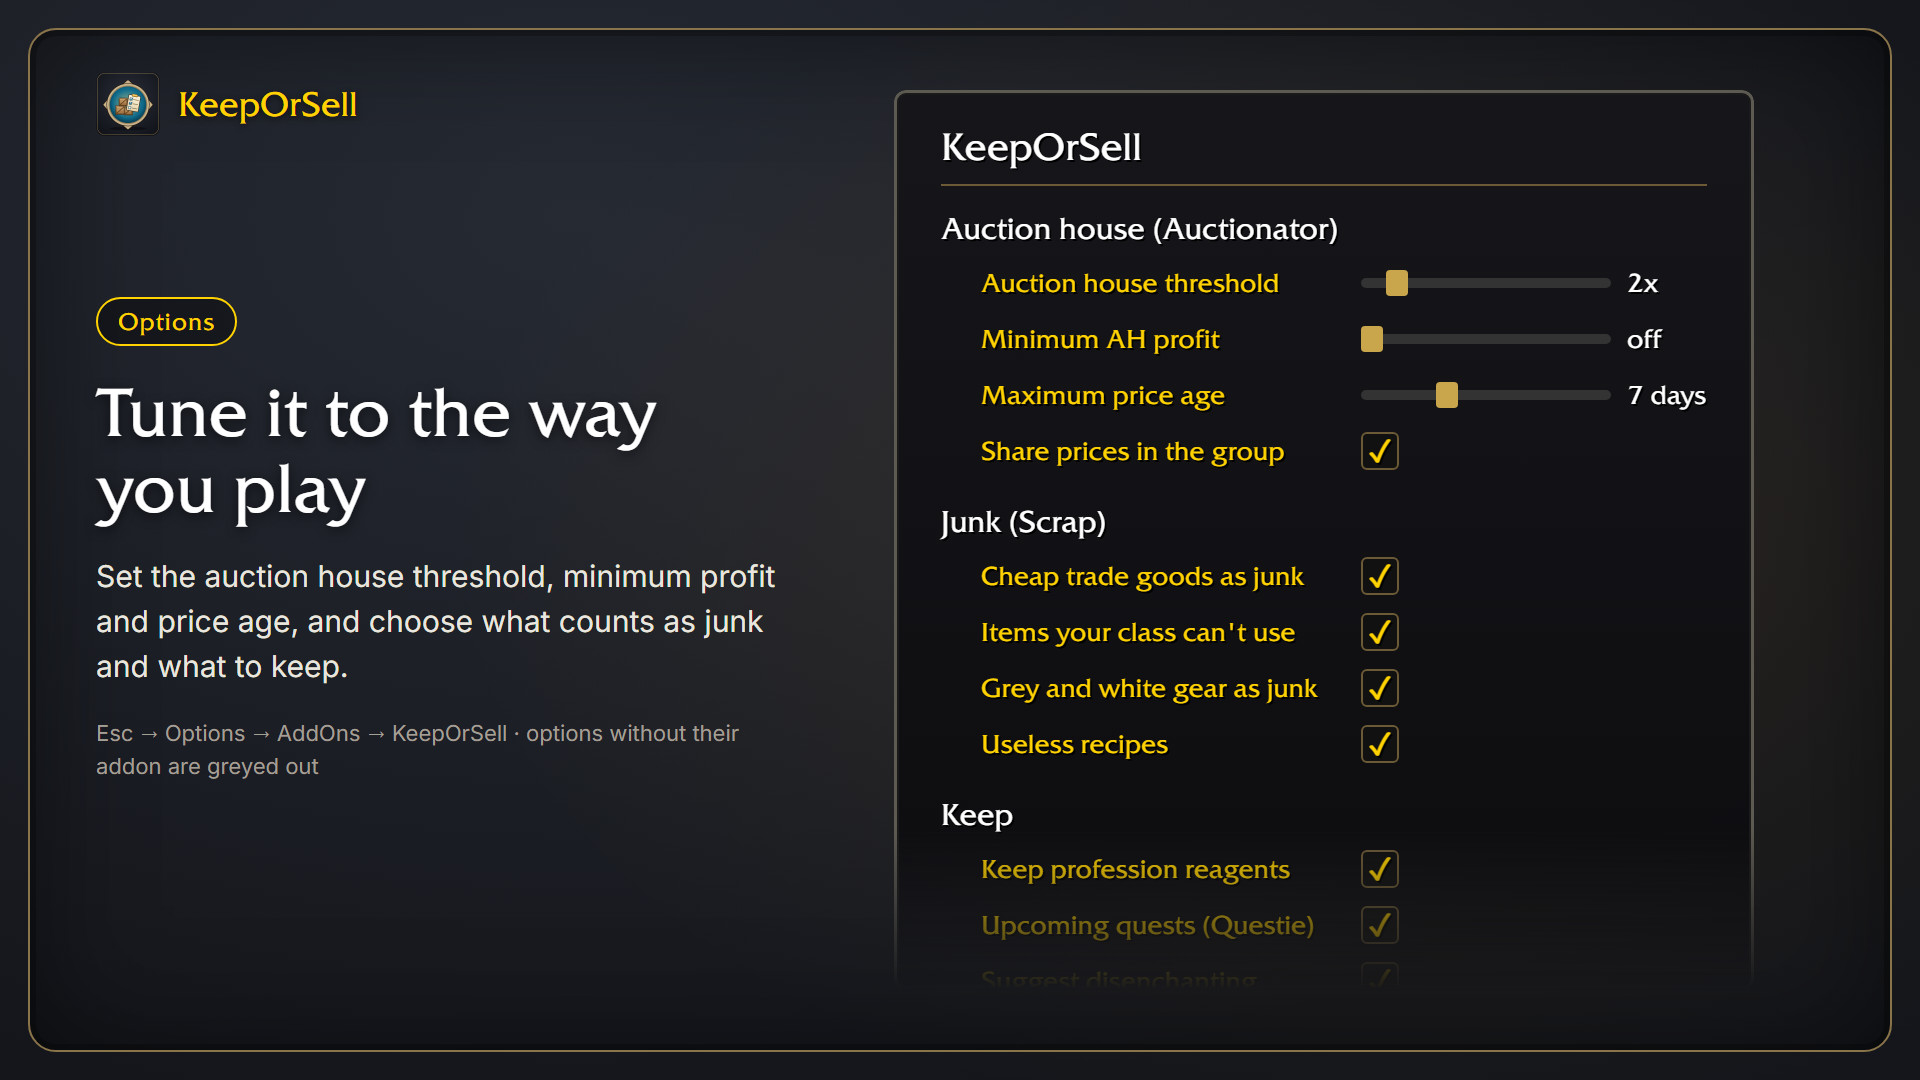
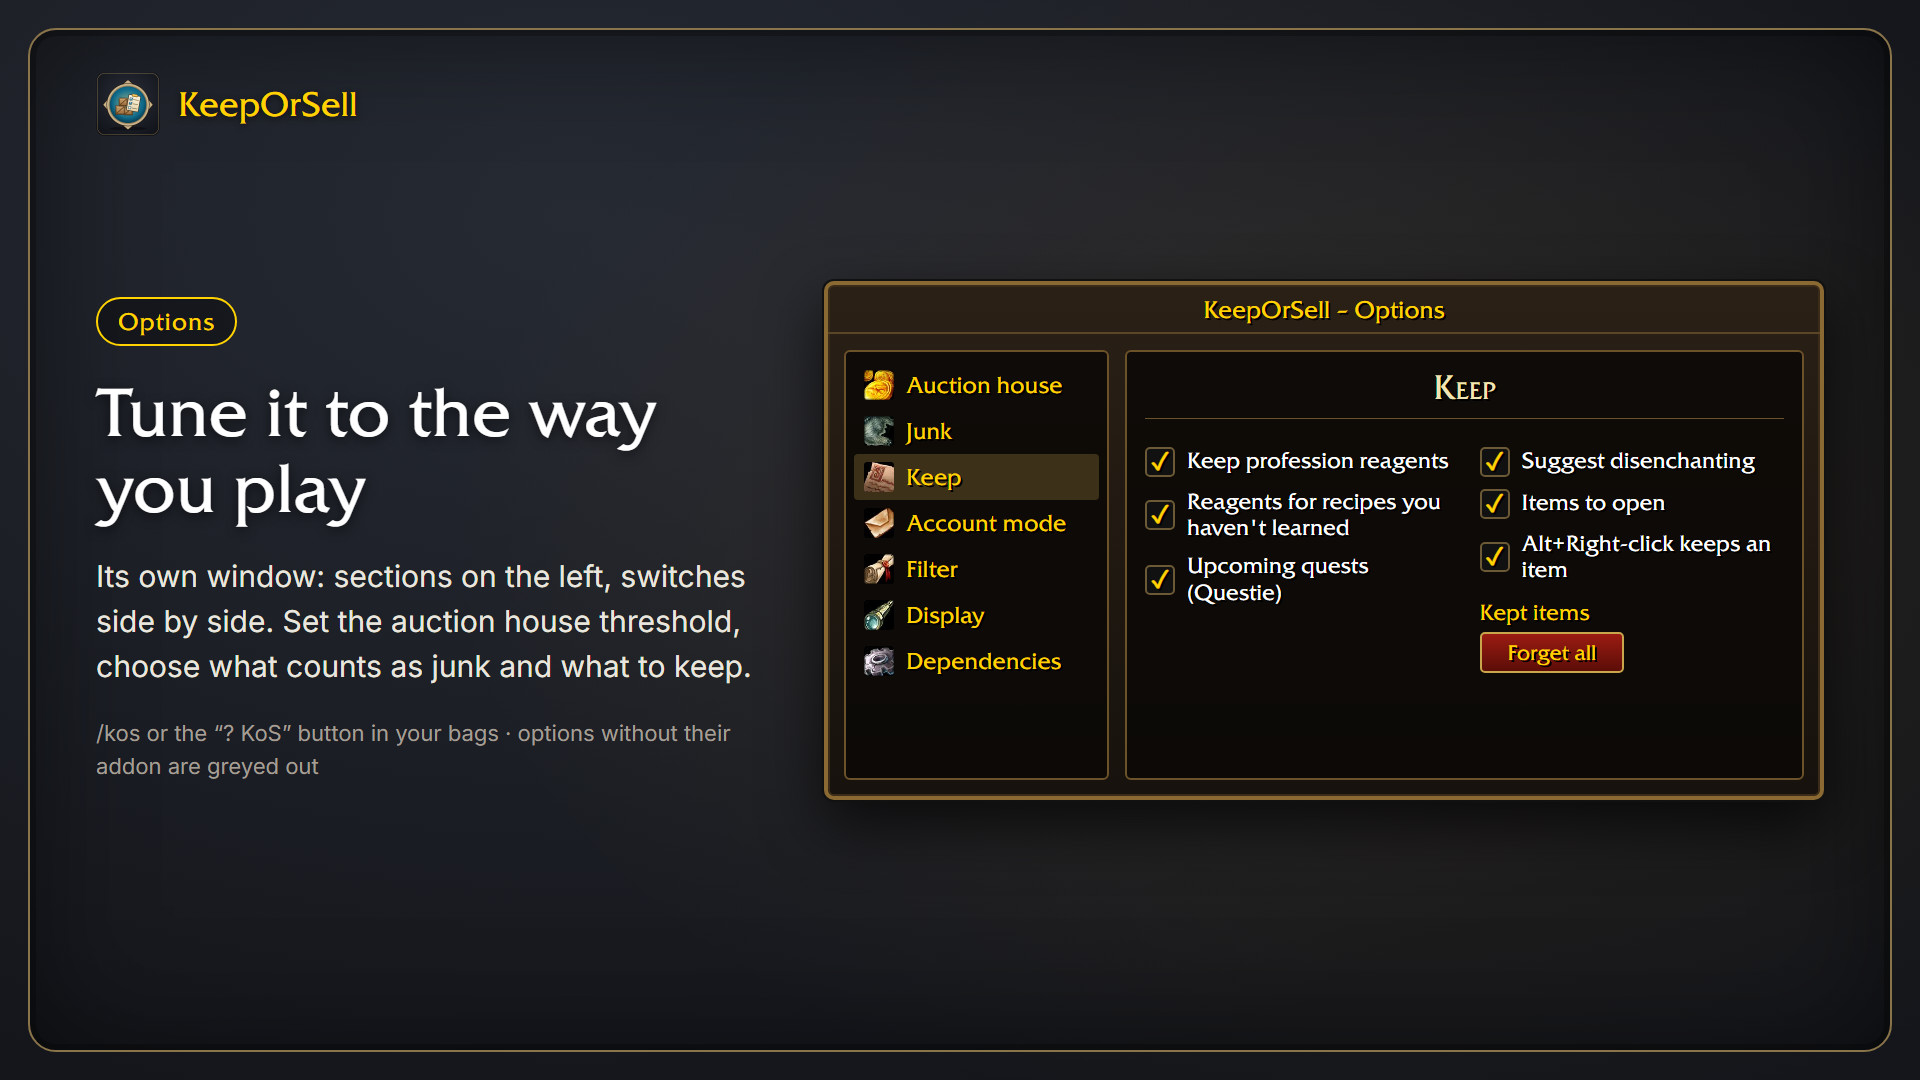
docs: gallery images for the options window and account mode

diff --git a/media/gallery/09-account-mode.html b/media/gallery/09-account-mode.html
@@ -1,0 +1,56 @@
+<!doctype html>
+<html lang="en">
+<head>
+<meta charset="utf-8">
+<title>KeepOrSell – Account mode</title>
+<link rel="stylesheet" href="https://fonts.googleapis.com/css2?family=Inter:wght@400;600&display=block">
+<link rel="stylesheet" href="style.css">
+</head>
+<body>
+<div class="frame"></div>
+<div class="brand"><img src="../logo.png" alt="">KeepOrSell</div>
+<div class="copy">
+  <span class="chip" style="color: var(--group-alt)">For alts</span>
+  <h1>Thinks of your alts too</h1>
+  <p>Profession materials and class items another of your characters still needs go to their own group. Mail them over in one go.</p>
+  <p class="note">Same ruleset and faction · each alt logs in once with KeepOrSell · switch it per alt</p>
+</div>
+<div class="stage">
+  <div class="stack" style="gap: 30px;">
+    <div class="pair">
+      <div class="slot"><img src="icons/inv_fabric_linen_01.jpg" alt=""><span class="count">20</span></div>
+      <div class="tooltip small" style="width: 820px;">
+        <div class="name q-common">Linen Cloth</div>
+        <div class="blue">Crafting Reagent</div>
+        <div>Sell Price: <span class="m">13<i class="c cu"></i></span></div>
+        <div class="gap"></div>
+        <div><span class="kos">KeepOrSell:</span> For alts: Hunt&nbsp;Fred (First Aid), Lock&nbsp;Fred (First Aid, Tailoring) – mail it over</div>
+        <div class="row" style="color: #ffaa33;"><span>&nbsp;&nbsp;» Otherwise: Auction house</span><span class="m">20<i class="c cu"></i></span></div>
+        <div class="row grey"><span>&nbsp;&nbsp;&nbsp;&nbsp;Vendor</span><span class="m">13<i class="c cu"></i></span></div>
+      </div>
+    </div>
+    <div class="win" style="width: 940px; margin-left: 40px;">
+      <div class="bar">Account mode</div>
+      <div class="body">
+        <div class="pane content" style="min-height: 0;">
+          <div class="cb" style="margin-top: 0;"><span class="box">✓</span>Think of my other characters</div>
+          <div class="label">Your alts (PvP · Alliance)</div>
+          <table>
+            <tr><th>Character</th><th style="text-align: left;">Professions</th><th>Profession materials</th><th>Class items</th><th>Included</th></tr>
+            <tr><td style="color: #abd473;">Hunt Fred</td>
+              <td><div class="icons"><img src="icons/inv_misc_food_15.jpg" alt=""><img src="icons/spell_holy_sealofsacrifice.jpg" alt=""><img src="icons/trade_fishing.jpg" alt=""><img src="icons/trade_herbalism.jpg" alt=""><img src="icons/inv_misc_pelt_wolf_01.jpg" alt=""></div></td>
+              <td><span class="box">✓</span></td><td><span class="box">✓</span></td><td><span class="box">✓</span></td></tr>
+            <tr><td style="color: #8788ee;">Lock Fred</td>
+              <td><div class="icons"><img src="icons/inv_misc_food_15.jpg" alt=""><img src="icons/spell_holy_sealofsacrifice.jpg" alt=""><img class="off" src="icons/trade_fishing.jpg" alt=""><img src="icons/trade_tailoring.jpg" alt=""><img src="icons/trade_engraving.jpg" alt=""></div></td>
+              <td><span class="box">✓</span></td><td><span class="box">✓</span></td><td><span class="box">✓</span></td></tr>
+            <tr class="off"><td style="color: #f58cba;">Su Ez <span style="color: #8d8a82;">(bank)</span></td>
+              <td><div class="icons"><img src="icons/inv_misc_food_15.jpg" alt=""><img src="icons/spell_holy_sealofsacrifice.jpg" alt=""><img class="off" src="icons/trade_fishing.jpg" alt=""><img src="icons/trade_mining.jpg" alt=""><img src="icons/trade_blacksmithing.jpg" alt=""></div></td>
+              <td><span class="box">✓</span></td><td><span class="box">✓</span></td><td><span class="box"></span></td></tr>
+          </table>
+        </div>
+      </div>
+    </div>
+  </div>
+</div>
+</body>
+</html>

diff --git a/media/gallery/08-options.html b/media/gallery/08-options.html
@@ -12,26 +12,40 @@
 <div class="copy">
   <span class="chip" style="color: var(--gold)">Options</span>
   <h1>Tune it to the way you play</h1>
-  <p>Set the auction house threshold, minimum profit and price age, and choose what counts as junk and what to keep.</p>
-  <p class="note">Esc → Options → AddOns → KeepOrSell · options without their addon are greyed out</p>
+  <p>Its own window: sections on the left, switches side by side. Set the auction house threshold, choose what counts as junk and what to keep.</p>
+  <p class="note">/kos or the “? KoS” button in your bags · options without their addon are greyed out</p>
 </div>
 <div class="stage">
-  <div class="settings" style="height: 900px; overflow: hidden;">
-    <h2>KeepOrSell</h2>
-    <h3>Auction house (Auctionator)</h3>
-    <div class="opt"><span>Auction house threshold</span><span class="slider"><span class="track"><i style="left: 10%"></i></span>2x</span></div>
-    <div class="opt"><span>Minimum AH profit</span><span class="slider"><span class="track"><i style="left: 0%"></i></span>off</span></div>
-    <div class="opt"><span>Maximum price age</span><span class="slider"><span class="track"><i style="left: 30%"></i></span>7 days</span></div>
-    <div class="opt"><span>Share prices in the group</span><span class="box">✓</span></div>
-    <h3>Junk (Scrap)</h3>
-    <div class="opt"><span>Cheap trade goods as junk</span><span class="box">✓</span></div>
-    <div class="opt"><span>Items your class can't use</span><span class="box">✓</span></div>
-    <div class="opt"><span>Grey and white gear as junk</span><span class="box">✓</span></div>
-    <div class="opt"><span>Useless recipes</span><span class="box">✓</span></div>
-    <h3>Keep</h3>
-    <div class="opt"><span>Keep profession reagents</span><span class="box">✓</span></div>
-    <div class="opt"><span>Upcoming quests (Questie)</span><span class="box">✓</span></div>
-    <div class="opt"><span>Suggest disenchanting</span><span class="box">✓</span></div>
+  <div class="win">
+    <div class="bar">KeepOrSell – Options</div>
+    <div class="body">
+      <div class="pane nav">
+        <div><img src="icons/inv_misc_coin_01.jpg" alt="">Auction house</div>
+        <div><img src="icons/inv_misc_pelt_wolf_01.jpg" alt="">Junk</div>
+        <div class="sel"><img src="icons/inv_misc_note_01.jpg" alt="">Keep</div>
+        <div><img src="icons/inv_letter_15.jpg" alt="">Account mode</div>
+        <div><img src="icons/inv_scroll_03.jpg" alt="">Filter</div>
+        <div><img src="icons/inv_misc_spyglass_02.jpg" alt="">Display</div>
+        <div><img src="icons/inv_misc_gear_01.jpg" alt="">Dependencies</div>
+      </div>
+      <div class="pane content">
+        <h2>Keep</h2>
+        <div class="cols">
+          <div class="col">
+            <div class="cb"><span class="box">✓</span>Keep profession reagents</div>
+            <div class="cb"><span class="box">✓</span>Reagents for recipes you haven't learned</div>
+            <div class="cb"><span class="box">✓</span>Upcoming quests (Questie)</div>
+          </div>
+          <div class="col">
+            <div class="cb"><span class="box">✓</span>Suggest disenchanting</div>
+            <div class="cb"><span class="box">✓</span>Items to open</div>
+            <div class="cb"><span class="box">✓</span>Alt+Right-click keeps an item</div>
+            <div class="label">Kept items</div>
+            <span class="btn">Forget all</span>
+          </div>
+        </div>
+      </div>
+    </div>
   </div>
 </div>
 </body>

diff --git a/media/gallery/style.css b/media/gallery/style.css
@@ -18,6 +18,7 @@
   --group-ah: #f0a73c;
   --group-disenchant: #b57cff;
   --group-junk: #9d9d9d;
+  --group-alt: #8fd16a;
 }
 
 * { box-sizing: border-box; margin: 0; padding: 0; }
@@ -183,3 +184,45 @@ body {
 .settings .track i { position: absolute; top: -8px; width: 22px; height: 26px; border-radius: 4px; background: #c9a64b; }
 .settings .dep { color: #fff; }
 .settings .dep b { font-weight: normal; color: #1eff00; }
+
+/* KeepOrSell's own options window (UI/OptionsWindow.lua), about 1.3× game size */
+.win {
+  width: 1000px; font-family: "Friz", serif; color: #fff; text-shadow: 2px 2px 0 #000;
+  background: linear-gradient(180deg, #2a2016, #17120d);
+  border: 4px solid #8a6a32; border-radius: 10px;
+  box-shadow: inset 0 0 0 2px #3a2c18, 0 0 0 2px #111, 0 24px 60px rgba(0, 0, 0, 0.7);
+}
+.win .bar { text-align: center; font-size: 24px; color: var(--gold); padding: 10px 0 8px; border-bottom: 2px solid #5b4626; }
+.win .body { display: flex; gap: 16px; padding: 16px; }
+.win .pane {
+  background: rgba(10, 8, 6, 0.85); border: 2px solid #6b5228; border-radius: 6px; padding: 14px 18px;
+}
+.win .nav { width: 265px; padding: 10px 8px; }
+.win .nav div { display: flex; align-items: center; gap: 12px; padding: 8px 10px; font-size: 23px; color: var(--gold); border-radius: 4px; white-space: nowrap; }
+.win .nav div.sel { background: rgba(201, 164, 75, 0.25); }
+.win .nav img { width: 30px; height: 30px; border-radius: 3px; }
+.win .content { flex: 1; min-height: 430px; }
+.win h2 { font-weight: normal; text-align: center; font-size: 34px; color: #f2e5b5; font-variant: small-caps;
+  padding-bottom: 10px; margin-bottom: 16px; border-bottom: 1px solid #6b5228; }
+.win .cols { display: flex; gap: 30px; }
+.win .col { flex: 1; }
+.win .cb { display: flex; align-items: center; gap: 12px; font-size: 22px; margin: 12px 0; line-height: 1.2; }
+.win .cb .box { flex: none; width: 30px; height: 30px; border-radius: 5px; background: #111; border: 2px solid #6b5a35;
+  display: grid; place-items: center; color: var(--gold); font: bold 24px/1 "Inter", sans-serif; }
+.win .label { color: var(--gold); font-size: 22px; margin: 16px 0 6px; }
+.win .btn { display: inline-block; padding: 6px 26px; font-size: 21px; color: var(--gold);
+  background: linear-gradient(180deg, #9b1c12, #5c0d08); border: 2px solid #c9a64b; border-radius: 5px; }
+.win .slider { display: flex; align-items: center; gap: 14px; font-size: 21px; margin-bottom: 18px; }
+.win .track { width: 260px; height: 10px; border-radius: 5px; background: #222; border: 1px solid #444; position: relative; }
+.win .track i { position: absolute; top: -9px; width: 14px; height: 26px; border-radius: 6px; background: #b8b8c8; box-shadow: 0 0 0 2px #333; }
+.win table { width: 100%; border-collapse: collapse; font-size: 21px; }
+.win th { font-weight: normal; color: var(--gold); font-size: 18px; text-align: center; padding: 6px 4px; }
+.win th:first-child, .win td:first-child { text-align: left; }
+.win td { padding: 7px 4px; text-align: center; }
+.win td .box { margin: 0 auto; width: 26px; height: 26px; border-radius: 5px; background: #111; border: 2px solid #6b5a35;
+  display: grid; place-items: center; color: var(--gold); font: bold 21px/1 "Inter", sans-serif; }
+.win .icons { display: flex; gap: 4px; }
+.win .icons img { width: 30px; height: 30px; border-radius: 3px; box-shadow: 0 0 0 1px #000; }
+.win .icons img.off { filter: grayscale(1) brightness(0.45); }
+.win .hint { color: #8d8a82; font-size: 18px; margin-top: 18px; }
+.win tr.off td { opacity: 0.45; }

diff --git a/README.md b/README.md
@@ -49,6 +49,8 @@ Want to keep something KeepOrSell would sell? **Alt+Right-click** it in your bag
 
 ![Bag tools](https://raw.githubusercontent.com/svengabr/KeepOrSell/main/media/gallery/07-bag-tools.jpg)
 
+![Account mode](https://raw.githubusercontent.com/svengabr/KeepOrSell/main/media/gallery/09-account-mode.jpg)
+
 ## Sharing filters
 
 A filter is your setup as plain text: the decision options (e.g. factor, minimum profit, price age and the junk, profession and disenchant switches), your keep marks and your own rules. Post it in a forum or Discord, or paste someone else's.
